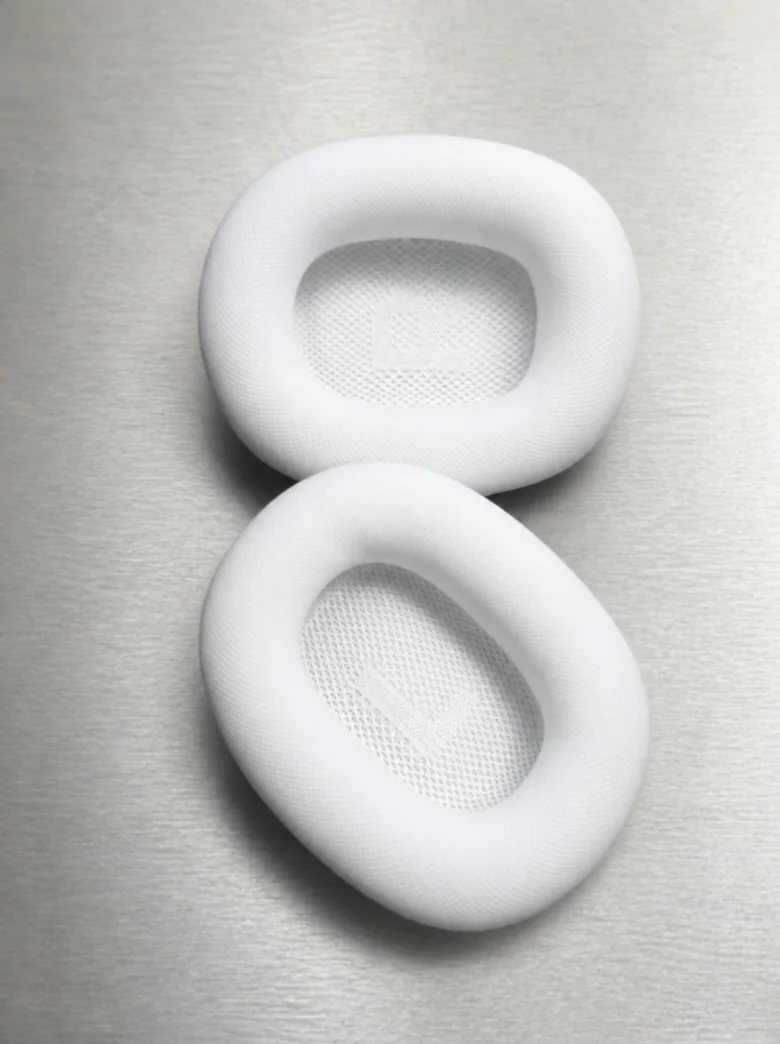
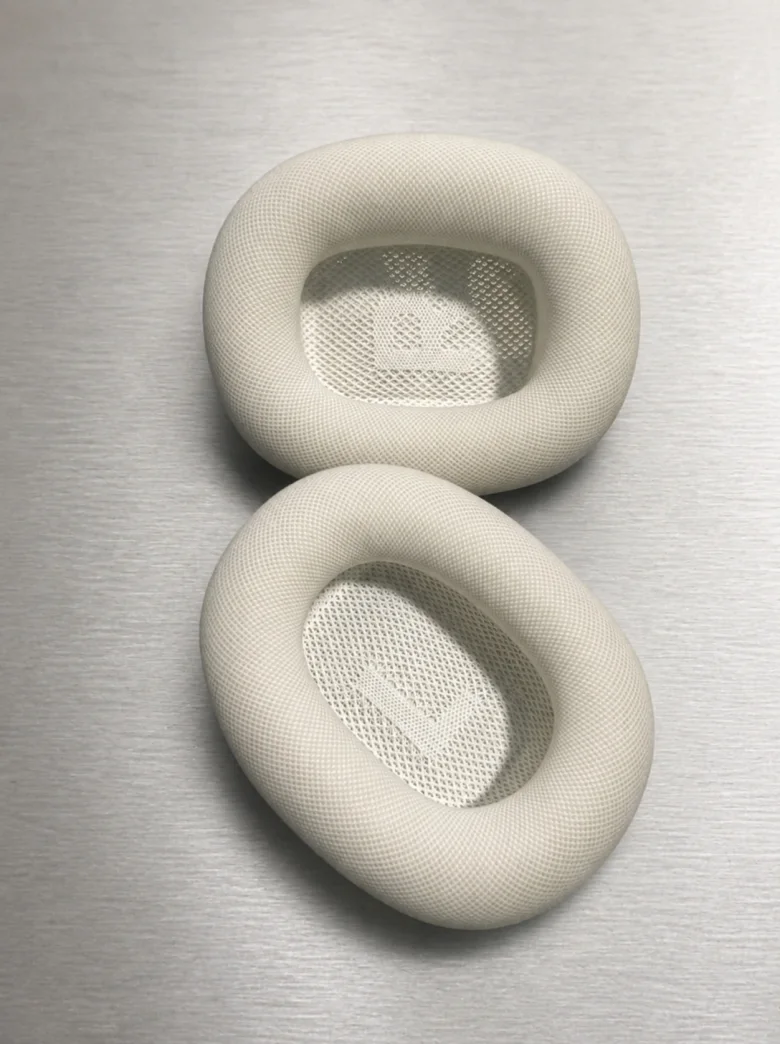
Réalisation : « après » réaliste généré avec ChatGPT à partir de la vraie paire

diff --git a/index.html b/index.html
@@ -143,8 +143,8 @@
             <img class="compare__before" src="photos/realisation-avant.webp" width="1088" height="1456" alt="Coussinets d'AirPods Max tels que reçus : maille grise et tachée." loading="lazy">
           </picture>
           <picture>
-            <source media="(max-width: 800px)" srcset="photos/realisation-apres-780.webp">
-            <img class="compare__after" src="photos/realisation-apres.webp" width="1088" height="1456" alt="Les mêmes coussinets après remise à neuf : maille blanche." loading="lazy">
+            <source media="(max-width: 800px)" srcset="photos/realisation-apres-780.webp?v=2">
+            <img class="compare__after" src="photos/realisation-apres.webp?v=2" width="1088" height="1456" alt="Les mêmes coussinets après remise à neuf : maille blanche." loading="lazy">
           </picture>
           <span class="compare__tag compare__tag--before" aria-hidden="true">Avant</span>
           <span class="compare__tag compare__tag--after" aria-hidden="true"><i class="dot"></i>Après</span>
